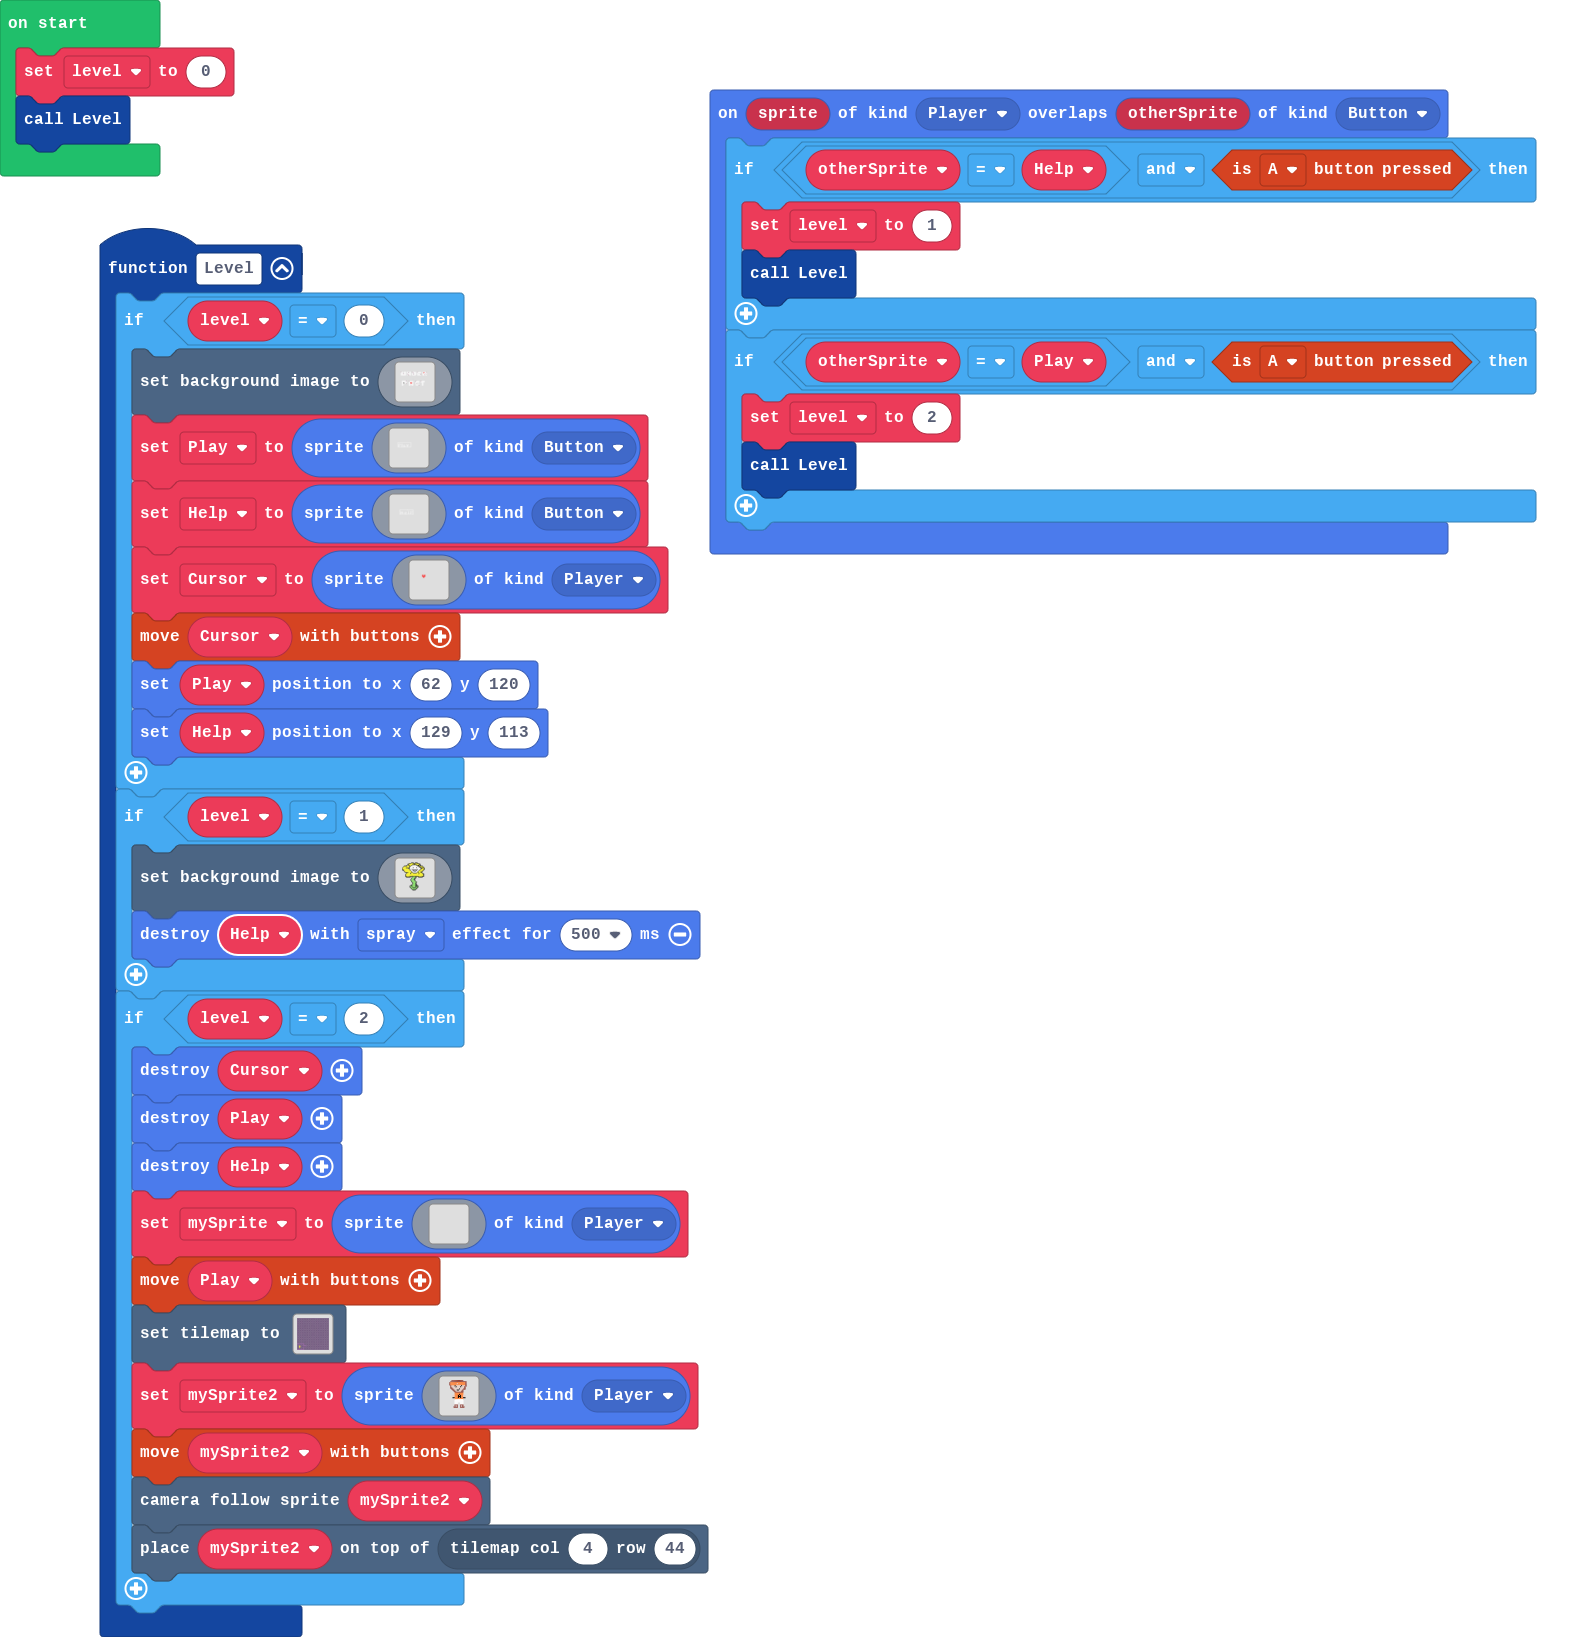
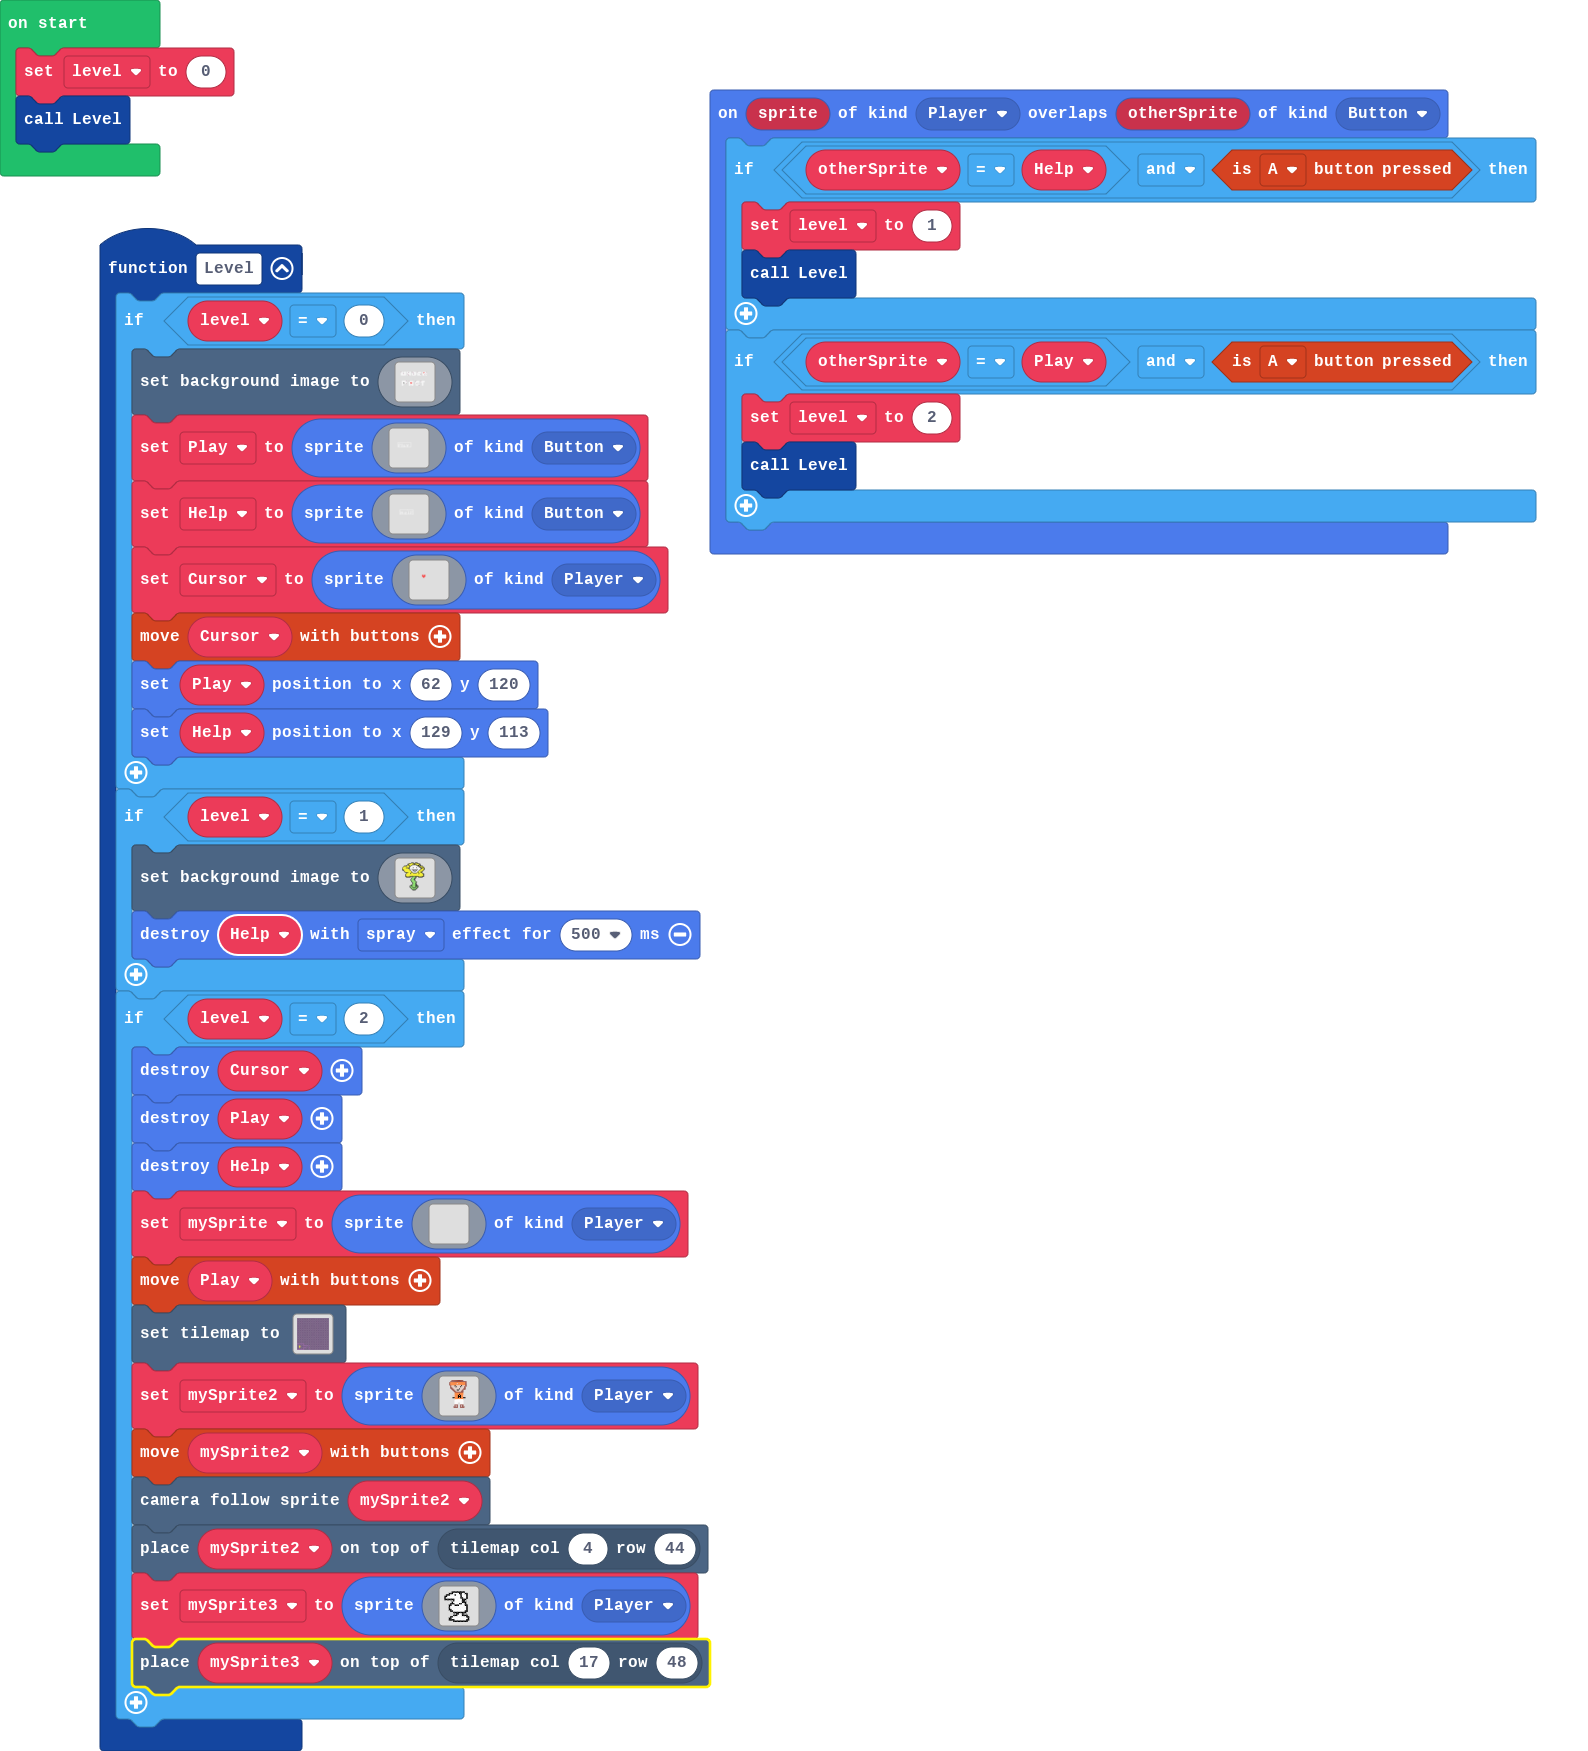
Update main.blocks, tilemap.g.jres, tilemap.g.ts, images.g.jres, images.g.ts, main.ts

Changed region(s): [[0.0, 0.0, 0.9874, 0.9969]]

diff --git a/tilemap.g.ts b/tilemap.g.ts
@@ -14,7 +14,7 @@ namespace myTiles {
     helpers._registerFactory("tilemap", function(name: string) {
         switch(helpers.stringTrim(name)) {
             case "level1":
[1 lines of base64/hex data omitted]
+            case "level1":return tiles.createTilemap(hex`3200320001010101010101010101010101010101010101010101010101010101010101010101010101010101010101010101010101010101010101010101010101010101010101010101010101010101010101010101010101010101010101010101010101010101010101010101010101010101010101010101010101010101010101010101010101010101010101010101010101010101010101010101010101010101010101010101010101010101010101010101010101010101010101010101010101010101010101010101010101010101010101010101010101010101010101010101010101010101010101010101010101010101010101010101010101010101010101010101010101010101010101010101010101010101010101010101010101010101010101010101010101010101010101010101010101010101010101010101010101010101010101010101010101010101010101010101010101010101010101010101010101010101010101010101010101010101010101010101010101010101010101010101010101010101010101010101010101010101010101010101010101010101010101010101010101010101010101010101010101010101010101010101010101010101010101010101010101010101010101010101010101010101010101010101010101010101010101010101010101010101010101010101010101010101010101010101010101010101010101010101010101010101010101010101010101010101010101010101010101010101010101010101010101010101010101010101010101010101010101010101010101010101010101010101010101010101010101010101010101010101010101010101010101010101010101010101010101010101010101010101010101010101010101010101010101010101010101010101010101010101010101010101010101010101010101010101010101010101010101010101010101010101010101010101010101010101010101010101010101010101010101010101010101010101010101010101010101010101010101010101010101010101010101010101010101010101010101010101010101010101010101010101010101010101010101010101010101010101010101010101010101010101010101010101010101010101010101010101010101010101010101010101010101010101010101010101010101010101010101010101010101010101010101010101010101010101010101010101010101010101010101010101010101010101010101010101010101010101010101010101010101010101010101010101010101010101010101010101010101010101010101010101010101010101010101010101010101010101010101010101010101010101010101010101010101010101010101010101010101010101010101010101010101010101010101010101010101010101010101010101010101010101010101010101010101010101010101010101010101010101010101010101010101010101010101010101010101010101010101010101010101010101010101010101010101010101010101010101010101010101010101010101010101010101010101010101010101010101010101010101010101010101010101010101010101010101010101010101010101010101010101010101010101010101010101010101010101010101010101010101010101010101010101010101010101010101010101010101010101010101010101010101010101010101010101010101010101010101010101010101010101010101010101010101010101010101010101010101010101010101010101010101010101010101010101010101010101010101010101010101010101010101010101010101010101010101010101010101010101010101010101010101010101010101010101010101010101010101010101010101010101010101010101010101010101010101010101010101010101010101010101010101010101010101010101010101010101010101010101010101010101010101010101010101010101010101010101010101010101010101010101010101010101010101010101010101010101010101010101010101010101010101010101010101010101010101010101010101010101010101010101010101010101010101010101010101010101010101010101010101010101010101010101010101010101010101010101010101010101010101010101010101010101010101010101010101010101010101010101010101010101010101010101010101010101010101010101010101010101010101010101010101010101010101010101010101010101010101010101010101010101010101010101010101010101010101010101010101010101010101010101010101010101010101010101010101010101010101010101010101010101010101010101010101010101010101010101010101010101010101010101010101010101010101010101010101010101010101010101010101010101010101010101010101010101010101010101010101010101010101010101010101010101010101010101010101010101010101010101010101010101010101010101010101010101010101010101010101010101010101010101010101010101010101010101010101010101010101010101010101010101010101010101010101010101010101010101010202020202020202020204010101010101010101010101010101010101010101010101010101010101010101010101010101010101010101010101010301010101010101010101010101010101010101010101010101010101010101010101010101010101010101010101010101030101010101010101010101010101010101010101010101010101010101010101010101010101010101010107010101010103020202020909090103010101010101010101010101010101010101010101010101010101010101010101070707010101010101010101010101010301010101010101010101010101010101010101010101010101010101010101010101070101010101010101010101010101030101010101010101010101010101010101010101010101010101010101010101010107010101010103080808080101010105010101010101010101010101010101010101010101010101010101010101010101010101010101010301010101010101010301010101010101010101010101010101010101010101010101010101010101010101010101010101030101010101010101030101010101010101010101010101010101010101010101010101010101010606060606060606060605010101010101010103010101010101010101010101010101010101010101010101010101010101`, img`
 ..................................................
 ..................................................
 ..................................................
@@ -65,7 +65,7 @@ namespace myTiles {
 ..................................................
 ..................................................
 ..................................................
-`, [myTiles.transparency16,sprites.dungeon.darkGroundCenter,sprites.dungeon.purpleOuterNorth1,sprites.dungeon.purpleOuterEast0,sprites.dungeon.purpleOuterNorthEast,sprites.dungeon.purpleOuterSouthWest,sprites.dungeon.purpleOuterSouth1,myTiles.tile1,myTiles.tile2,myTiles.tile3,myTiles.tile4], TileScale.Sixteen);
+`, [myTiles.transparency16,sprites.dungeon.darkGroundCenter,sprites.dungeon.purpleOuterNorth1,sprites.dungeon.purpleOuterEast0,sprites.dungeon.purpleOuterNorthEast,sprites.dungeon.purpleOuterSouthWest,sprites.dungeon.purpleOuterSouth1,myTiles.tile4,sprites.dungeon.purpleOuterSouth0,sprites.dungeon.purpleOuterNorth0], TileScale.Sixteen);
         }
         return null;
     })

diff --git a/main.ts b/main.ts
@@ -682,6 +682,31 @@ function Level () {
         controller.moveSprite(mySprite2)
         scene.cameraFollowSprite(mySprite2)
         tiles.placeOnTile(mySprite2, tiles.getTileLocation(4, 44))
+        mySprite3 = sprites.create(img`
+            ......................
+            ......fffffffff.......
+            ....fff1111ff11ff.....
+            ..fff111f111f111f.....
+            .ff111111111f111f.....
+            .f1111111111ff11f.....
+            .fffffff11111fff......
+            .......f11111ff.......
+            ......f111111fff......
+            .....fff111ff11f......
+            ....ff11fff1111ff.....
+            ....f11111111111f.....
+            ....f11111111111f.....
+            ....ff1111111111f.....
+            .....ff11111111ff.....
+            .......fffffffff......
+            .........ff11f........
+            .......fff111ffff.....
+            .....ff111111111ff....
+            ....ff11111111111f....
+            ....ffff11111111ff....
+            .......ffffffffff.....
+            `, SpriteKind.Player)
+        tiles.placeOnTile(mySprite3, tiles.getTileLocation(17, 48))
     }
 }
 sprites.onOverlap(SpriteKind.Player, SpriteKind.Button, function (sprite, otherSprite) {
@@ -694,6 +719,7 @@ sprites.onOverlap(SpriteKind.Player, SpriteKind.Button, function (sprite, otherS
         Level()
     }
 })
+let mySprite3: Sprite = null
 let mySprite2: Sprite = null
 let mySprite: Sprite = null
 let Cursor: Sprite = null

diff --git a/images.g.ts b/images.g.ts
@@ -698,6 +698,30 @@ namespace myImages {
 ..............................
 ..............................
 `;
+            case "image2":return img`
+......................
+......fffffffff.......
+....fff1111ff11ff.....
+..fff111f111f111f.....
+.ff111111111f111f.....
+.f1111111111ff11f.....
+.fffffff11111fff......
+.......f11111ff.......
+......f111111fff......
+.....fff111ff11f......
+....ff11fff1111ff.....
+....f11111111111f.....
+....f11111111111f.....
+....ff1111111111f.....
+.....ff11111111ff.....
+.......fffffffff......
+.........ff11f........
+.......fff111ffff.....
+.....ff111111111ff....
+....ff11111111111f....
+....ffff11111111ff....
+.......ffffffffff.....
+`;
         }
         return null;
     })
